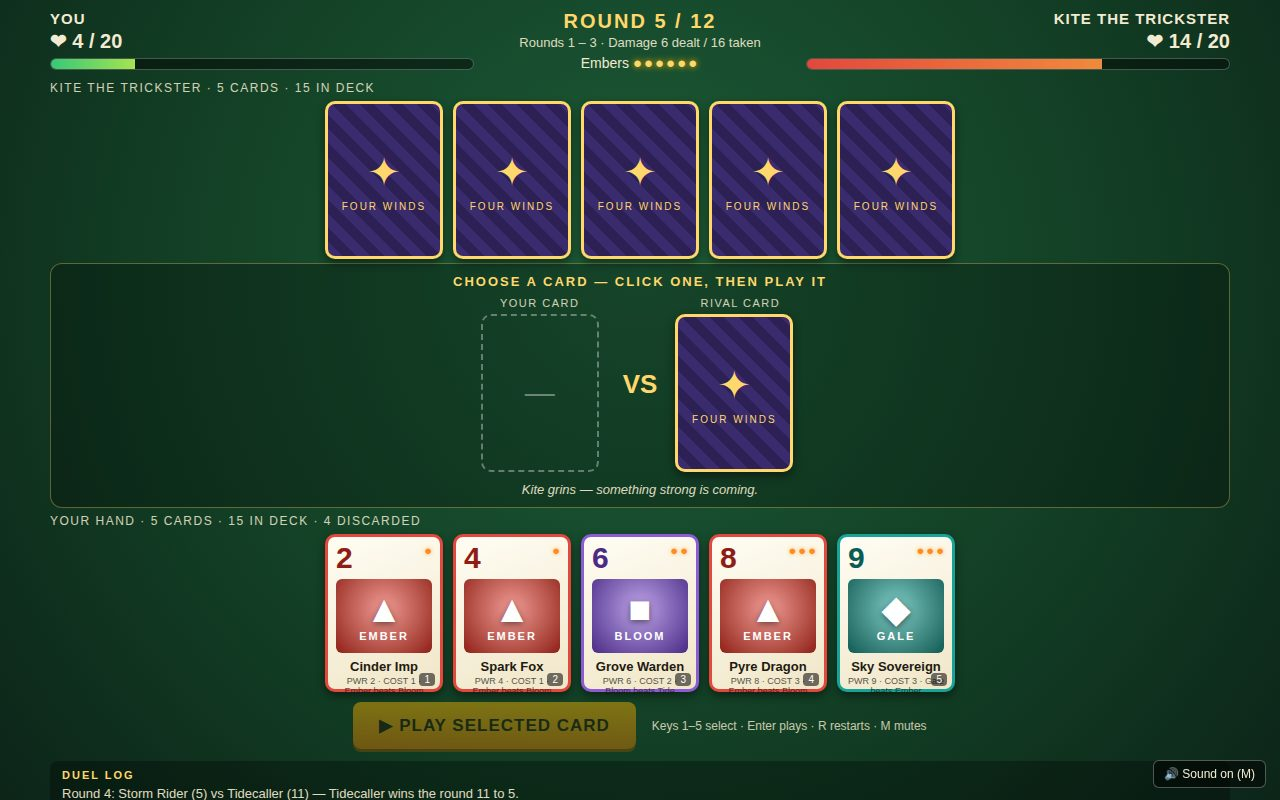
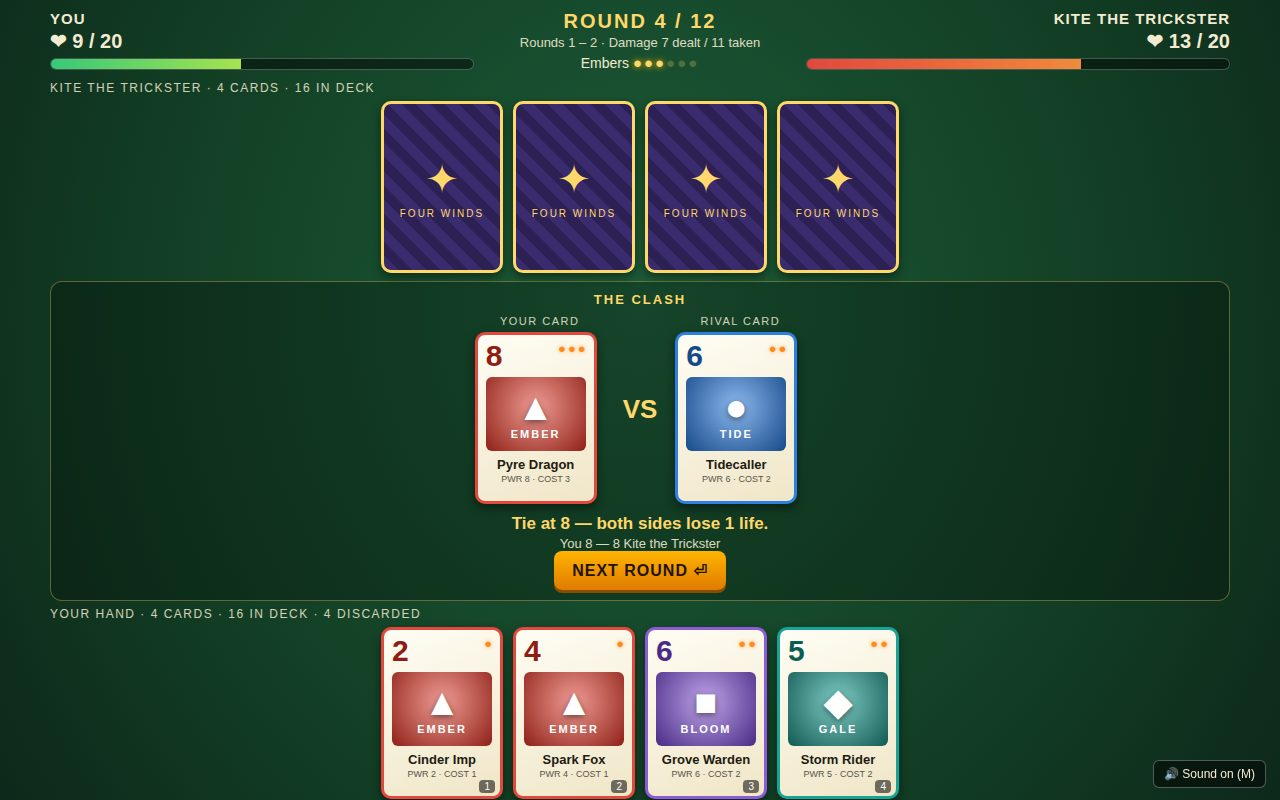
Hide next-round button behind game-over overlay

diff --git a/game/src/render.js b/game/src/render.js
@@ -113,9 +113,9 @@ function renderArena(root, state, onPlay) {
     const banner = el('div', 'outcome ' + out.winner, out.line);
     const powers = el('div', 'powers', `You ${out.playerPower} — ${out.rivalPower} ${RIVAL_NAME}`);
     arena.append(banner, powers);
-    const next = el('button', 'btn primary', state.phase === 'over' ? 'SEE THE RESULT' : 'NEXT ROUND  ⏎');
+    const next = el('button', 'btn primary', 'NEXT ROUND  ⏎');
     next.addEventListener('click', onPlay);
-    arena.appendChild(next);
+    if (state.phase !== 'over') arena.appendChild(next);
   } else if (state.tell) {
     arena.appendChild(el('div', 'tell', state.tell));
   }
